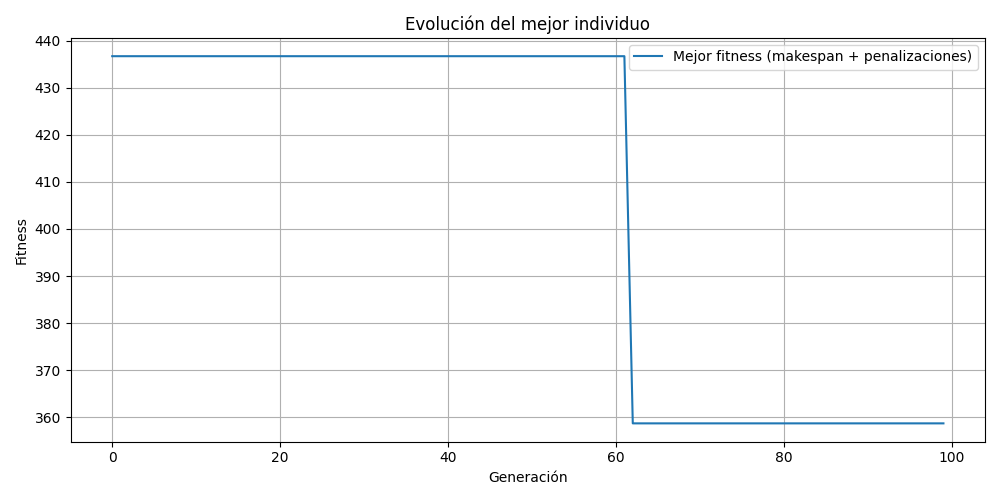
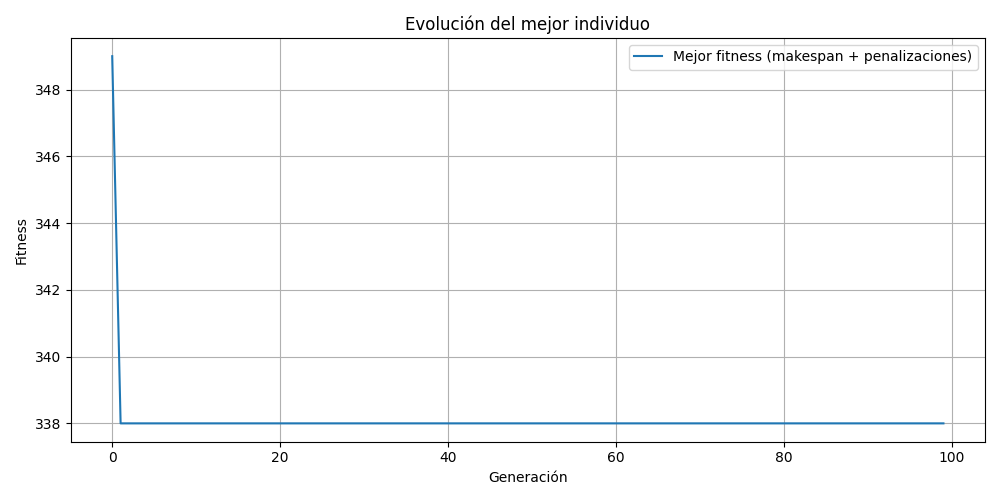
se cambio el uso de penalizaciones por una sobrecarga de tiempo

diff --git a/src/gui/graph.py b/src/gui/graph.py
@@ -18,6 +18,15 @@ def agrupar_por_tipo(individuo, infoTareas, num_estaciones=None):
             estaciones = estaciones[:num_estaciones]
     return estaciones
 
+def sobrecargar_individuo(individuo, infoTareas, dependencias, sobrecarga):
+    pos = {t: i for i, t in enumerate(individuo)}
+    for tarea, deps in dependencias.items():
+        for d in deps:
+            if pos.get(d, -1) > pos.get(tarea, -1):
+                type_task = infoTareas[tarea]['tipo']
+                infoTareas[tarea]['tiempo'] += sobrecarga[type_task]['tiempo']
+    return individuo
+
 def graficar_evolucion(mejores):
     plt.figure(figsize=(10,5))
     plt.plot(mejores, label='Mejor fitness (makespan + penalizaciones)')
@@ -32,12 +41,7 @@ def graficar_evolucion(mejores):
 
 def graficar_gantt(individuo, infoTareas):
     
-    for i in range(0, len(individuo), 3):
-        if i == 0:
-            print("[", end=" ")
-        print(individuo[i:i+3])
-        if i + 3 >= len(individuo):
-            print("]", end=" ")
+    
     tipos = []
     for t in individuo:
         tipo = infoTareas[t]['tipo']
@@ -91,8 +95,8 @@ def graficar_gantt(individuo, infoTareas):
     plt.savefig('results/gantt_mejor_solucion.png')
     plt.show()
 
-def ventana_top_3(poblacion, infoTareas, dependencias, fitness_func):
-    top_3 = sorted(poblacion, key=lambda ind: fitness_func(ind, dependencias, infoTareas))[:3]
+def ventana_top_3(poblacion, infoTareas, dependencias, fitness_func, sobrecarga):
+    top_3 = sorted(poblacion, key=lambda ind: fitness_func(ind, dependencias, infoTareas, sobrecarga))[:3]
 
     ventana = tk.Toplevel()
     ventana.title("Top 3 mejores soluciones")
@@ -104,7 +108,7 @@ def ventana_top_3(poblacion, infoTareas, dependencias, fitness_func):
     texto.insert(tk.END, "Tabla con los 3 mejores resultados:\n\n")
 
     for i, ind in enumerate(top_3, start=1):
-        fitness_val = fitness_func(ind, dependencias, infoTareas)
+        fitness_val = fitness_func(ind, dependencias, infoTareas, sobrecarga)
         texto.insert(tk.END, f"🔹 Individuo {i} - Fitness total: {fitness_val:.2f}\n")
 
         estaciones = agrupar_por_tipo(ind, infoTareas)
@@ -121,13 +125,14 @@ def ventana_top_3(poblacion, infoTareas, dependencias, fitness_func):
 
     texto.config(state='disabled')
 
-def ventana_resumen_mejor(poblacion, infoTareas, dependencias, fitness_func):
-    mejor = min(poblacion, key=lambda ind: fitness_func(ind, dependencias, infoTareas))
+def ventana_resumen_mejor(poblacion, infoTareas, dependencias, fitness_func, sobrecarga):
+    individuo_sobrecargado = sobrecargar_individuo(poblacion[0], infoTareas, dependencias, sobrecarga)
+    mejor = min(poblacion, key=lambda ind: fitness_func(ind, dependencias, infoTareas, sobrecarga))
     estaciones = agrupar_por_tipo(mejor, infoTareas)
 
     cargas = [sum(infoTareas[t]['tiempo'] for t in tareas) for tareas in estaciones]
     makespan = sum(cargas) if cargas else 0
-    penalizaciones = fitness_func(mejor, dependencias, infoTareas) - makespan
+    sobrecargas = fitness_func(individuo_sobrecargado, dependencias, infoTareas, sobrecarga) - makespan
 
     ventana = tk.Toplevel()
     ventana.title("Resumen del mejor individuo")
@@ -147,6 +152,6 @@ def ventana_resumen_mejor(poblacion, infoTareas, dependencias, fitness_func):
             texto.insert(tk.END, f"   Estación {est_idx}: vacía\n")
 
     texto.insert(tk.END, f"\nMakespan total: {makespan}\n")
-    texto.insert(tk.END, f"Penalizaciones: {penalizaciones:.2f}\n")
+    texto.insert(tk.END, f"Sobre cargas: {sobrecargas:.2f}\n")
 
     texto.config(state='disabled')

diff --git a/src/gui/visual.py b/src/gui/visual.py
@@ -5,10 +5,11 @@ import pandas as pd
 
 tareas_df = pd.read_csv("data/tareas.csv")
 precedencias_df = pd.read_csv("data/precedencias.csv", index_col=0)
+sobrecarga_df = pd.read_csv("data/sobrecarga.csv")
 
 def iniciar_interfaz():
     def ejecutar_algoritmo():
-        global tareas_df, precedencias_df
+        global tareas_df, precedencias_df, sobrecarga_df
         estaciones = 5
         try:
             poblacion = int(entry_poblacion.get())
@@ -18,6 +19,10 @@ def iniciar_interfaz():
 
             if not (0 <= p_cruza <= 1 and 0 <= p_mutacion <= 1):
                 raise ValueError("Las probabilidades deben estar entre 0.0 y 1.0")
+
+            # Validar columnas de sobrecarga_df
+            if not {'Nombre', 'Tiempo', 'Tipo'}.issubset(sobrecarga_df.columns):
+                raise ValueError("El archivo de sobrecarga debe tener las columnas 'Nombre', 'Tiempo' y 'Tipo'.")
 
             # se valida que las columnas existan en tareas_df
             if not {'Nombre', 'Tiempo', 'Tipo'}.issubset(tareas_df.columns):
@@ -30,6 +35,13 @@ def iniciar_interfaz():
                     'tiempo': row['Tiempo'],
                     'tipo': row['Tipo']
                 } for _, row in tareas_df.iterrows()
+            }
+
+            sobrecarga = {
+                row['Tipo']: {
+                    'tiempo': row['Tiempo'],
+                    'Nombre': row['Nombre']
+                } for _, row in sobrecarga_df.iterrows()
             }
 
             # Construir diccionario de precedencias { tarea: [lista de tareas predecesoras] }
@@ -45,7 +57,7 @@ def iniciar_interfaz():
 
             #ejecuta el algoritmo genético con lista de tareas y precedencias
             mejor_individuo, evolucion = ejecutar_algoritmo_genetico(
-                nombresTareas, infoTareas, matPrecedencias, estaciones, poblacion, generaciones, p_cruza, p_mutacion)
+nombresTareas, infoTareas, matPrecedencias, estaciones, poblacion, generaciones, p_cruza, p_mutacion, sobrecarga)
 
 
         except Exception as e:

diff --git a/src/ag/ejecutar_ag.py b/src/ag/ejecutar_ag.py
@@ -10,7 +10,7 @@ import copy
 import random
 
 def ejecutar_algoritmo_genetico(tareas, infoTareas, dependencias, num_estaciones,
-                                tam_poblacion, num_generaciones, prob_cruza, prob_mutacion):
+                                tam_poblacion, num_generaciones, prob_cruza, prob_mutacion, sobrecarga):
 
     poblacion = [generar_individuo(tareas, num_estaciones, infoTareas) for _ in range(tam_poblacion)]
     mejor_fitness = float('inf')
@@ -43,12 +43,12 @@ def ejecutar_algoritmo_genetico(tareas, infoTareas, dependencias, num_estaciones
         poblacion.extend(nueva_poblacion)
 
         # Poda para mantener tamaño poblacional
-        poblacion = poda(poblacion, dependencias, infoTareas, tam_poblacion)
+        poblacion = poda(poblacion, dependencias, infoTareas, tam_poblacion, sobrecarga)
 
         # Ordenar población según fitness (menor es mejor)
-        poblacion.sort(key=lambda ind: fitness(ind, dependencias, infoTareas))
+        poblacion.sort(key=lambda ind: fitness(ind, dependencias, infoTareas, sobrecarga))
 
-        fit_actual = fitness(poblacion[0], dependencias, infoTareas, poblacion)
+        fit_actual = fitness(poblacion[0], dependencias, infoTareas, sobrecarga)
         evolucion.append(fit_actual)
 
         if fit_actual < mejor_fitness:
@@ -58,7 +58,7 @@ def ejecutar_algoritmo_genetico(tareas, infoTareas, dependencias, num_estaciones
     # Graficar evolución y resultados
     graph.graficar_evolucion(evolucion)
     graph.graficar_gantt(mejor_individuo, infoTareas)
-    graph.ventana_top_3(poblacion, infoTareas, dependencias, fitness)
-    graph.ventana_resumen_mejor(poblacion, infoTareas, dependencias, fitness)
+    graph.ventana_top_3(poblacion, infoTareas, dependencias, fitness, sobrecarga)
+    graph.ventana_resumen_mejor(poblacion, infoTareas, dependencias, fitness, sobrecarga)
 
     return mejor_individuo, evolucion

diff --git a/src/ag/sobrecarga.py b/src/ag/sobrecarga.py
@@ -1,18 +1,17 @@
 import numpy as np
 
-PENALIZACION_PRECEDENCIA = 3
-PENALIZACION_DESEQUILIBRIO = 5
-
-def evaluar_precedencias(individuo, dependencias, infoTareas):
+def evaluar_precedencias(individuo, dependencias, infoTareas, sobrecarga):
     pos = {t: i for i, t in enumerate(individuo)}
-    penal = 0
+    overload = 0
     for tarea, deps in dependencias.items():
         for d in deps:
             # Si la tarea depende de otra que aparece después en el individuo
-            # penalizamos por la violación de la precedencia
+            # agregamos tiempo de sobrecarga por violación de la precedencia
             if pos.get(d, -1) > pos.get(tarea, -1):
-                penal += PENALIZACION_PRECEDENCIA * infoTareas[tarea]['tiempo']
-    return penal
+                type_task = infoTareas[tarea]['tipo']
+                #overload += infoTareas[tarea]['tiempo']
+                overload += sobrecarga[type_task]['tiempo']
+    return overload
 
 def evaluar_balanceo(individuo, infoTareas):
     num_estaciones = 5
@@ -30,7 +29,7 @@ def evaluar_balanceo(individuo, infoTareas):
     desv = np.std(cargas)
     #print("Cargas por estación:", cargas)
     #print("Desviación estándar:", desv)
-    return desv * PENALIZACION_DESEQUILIBRIO
+    return 0 
 
 def evaluar_makespan(individuo, infoTareas):
     # Suma total de tiempos (makespan simple)

diff --git a/src/ag/fitness.py b/src/ag/fitness.py
@@ -1,10 +1,10 @@
-from src.ag.penalizaciones import evaluar_precedencias, evaluar_balanceo, evaluar_makespan
+from src.ag.sobrecarga import evaluar_precedencias, evaluar_balanceo, evaluar_makespan
 
 #funcion fitness que evalua un individuo
 
-def fitness(individuo, dependencias, infoTareas, poblacion):
-    penal = 0
-    penal += evaluar_precedencias(individuo, dependencias, infoTareas, poblacion)
-    penal += evaluar_balanceo(individuo, infoTareas)
-    return evaluar_makespan(individuo, infoTareas) + penal
+def fitness(individuo, dependencias, infoTareas, sobrecarga):
+    overload = 0
+    overload += evaluar_precedencias(individuo, dependencias, infoTareas, sobrecarga)
+    overload += evaluar_balanceo(individuo, infoTareas)
+    return evaluar_makespan(individuo, infoTareas) + overload
 

diff --git a/src/ag/poda.py b/src/ag/poda.py
@@ -1,7 +1,7 @@
 import random
 from src.ag.fitness import fitness
 
-def poda(poblacion, dependencias, infoTareas, tam_poblacion):
+def poda(poblacion, dependencias, infoTareas, tam_poblacion, sobrecarga):
     # Eliminar duplicados usando tuplas para poder hash
     poblacion_unica = {}
     for ind in poblacion:
@@ -11,7 +11,7 @@ def poda(poblacion, dependencias, infoTareas, tam_poblacion):
     poblacion = list(poblacion_unica.values())
 
     # se ordena la población por fitness (menor es mejor)
-    poblacion.sort(key=lambda ind: fitness(ind, dependencias, infoTareas))
+    poblacion.sort(key=lambda ind: fitness(ind, dependencias, infoTareas, sobrecarga))
 
     mejor = poblacion[0] # se guarda el mejor individuo
 
